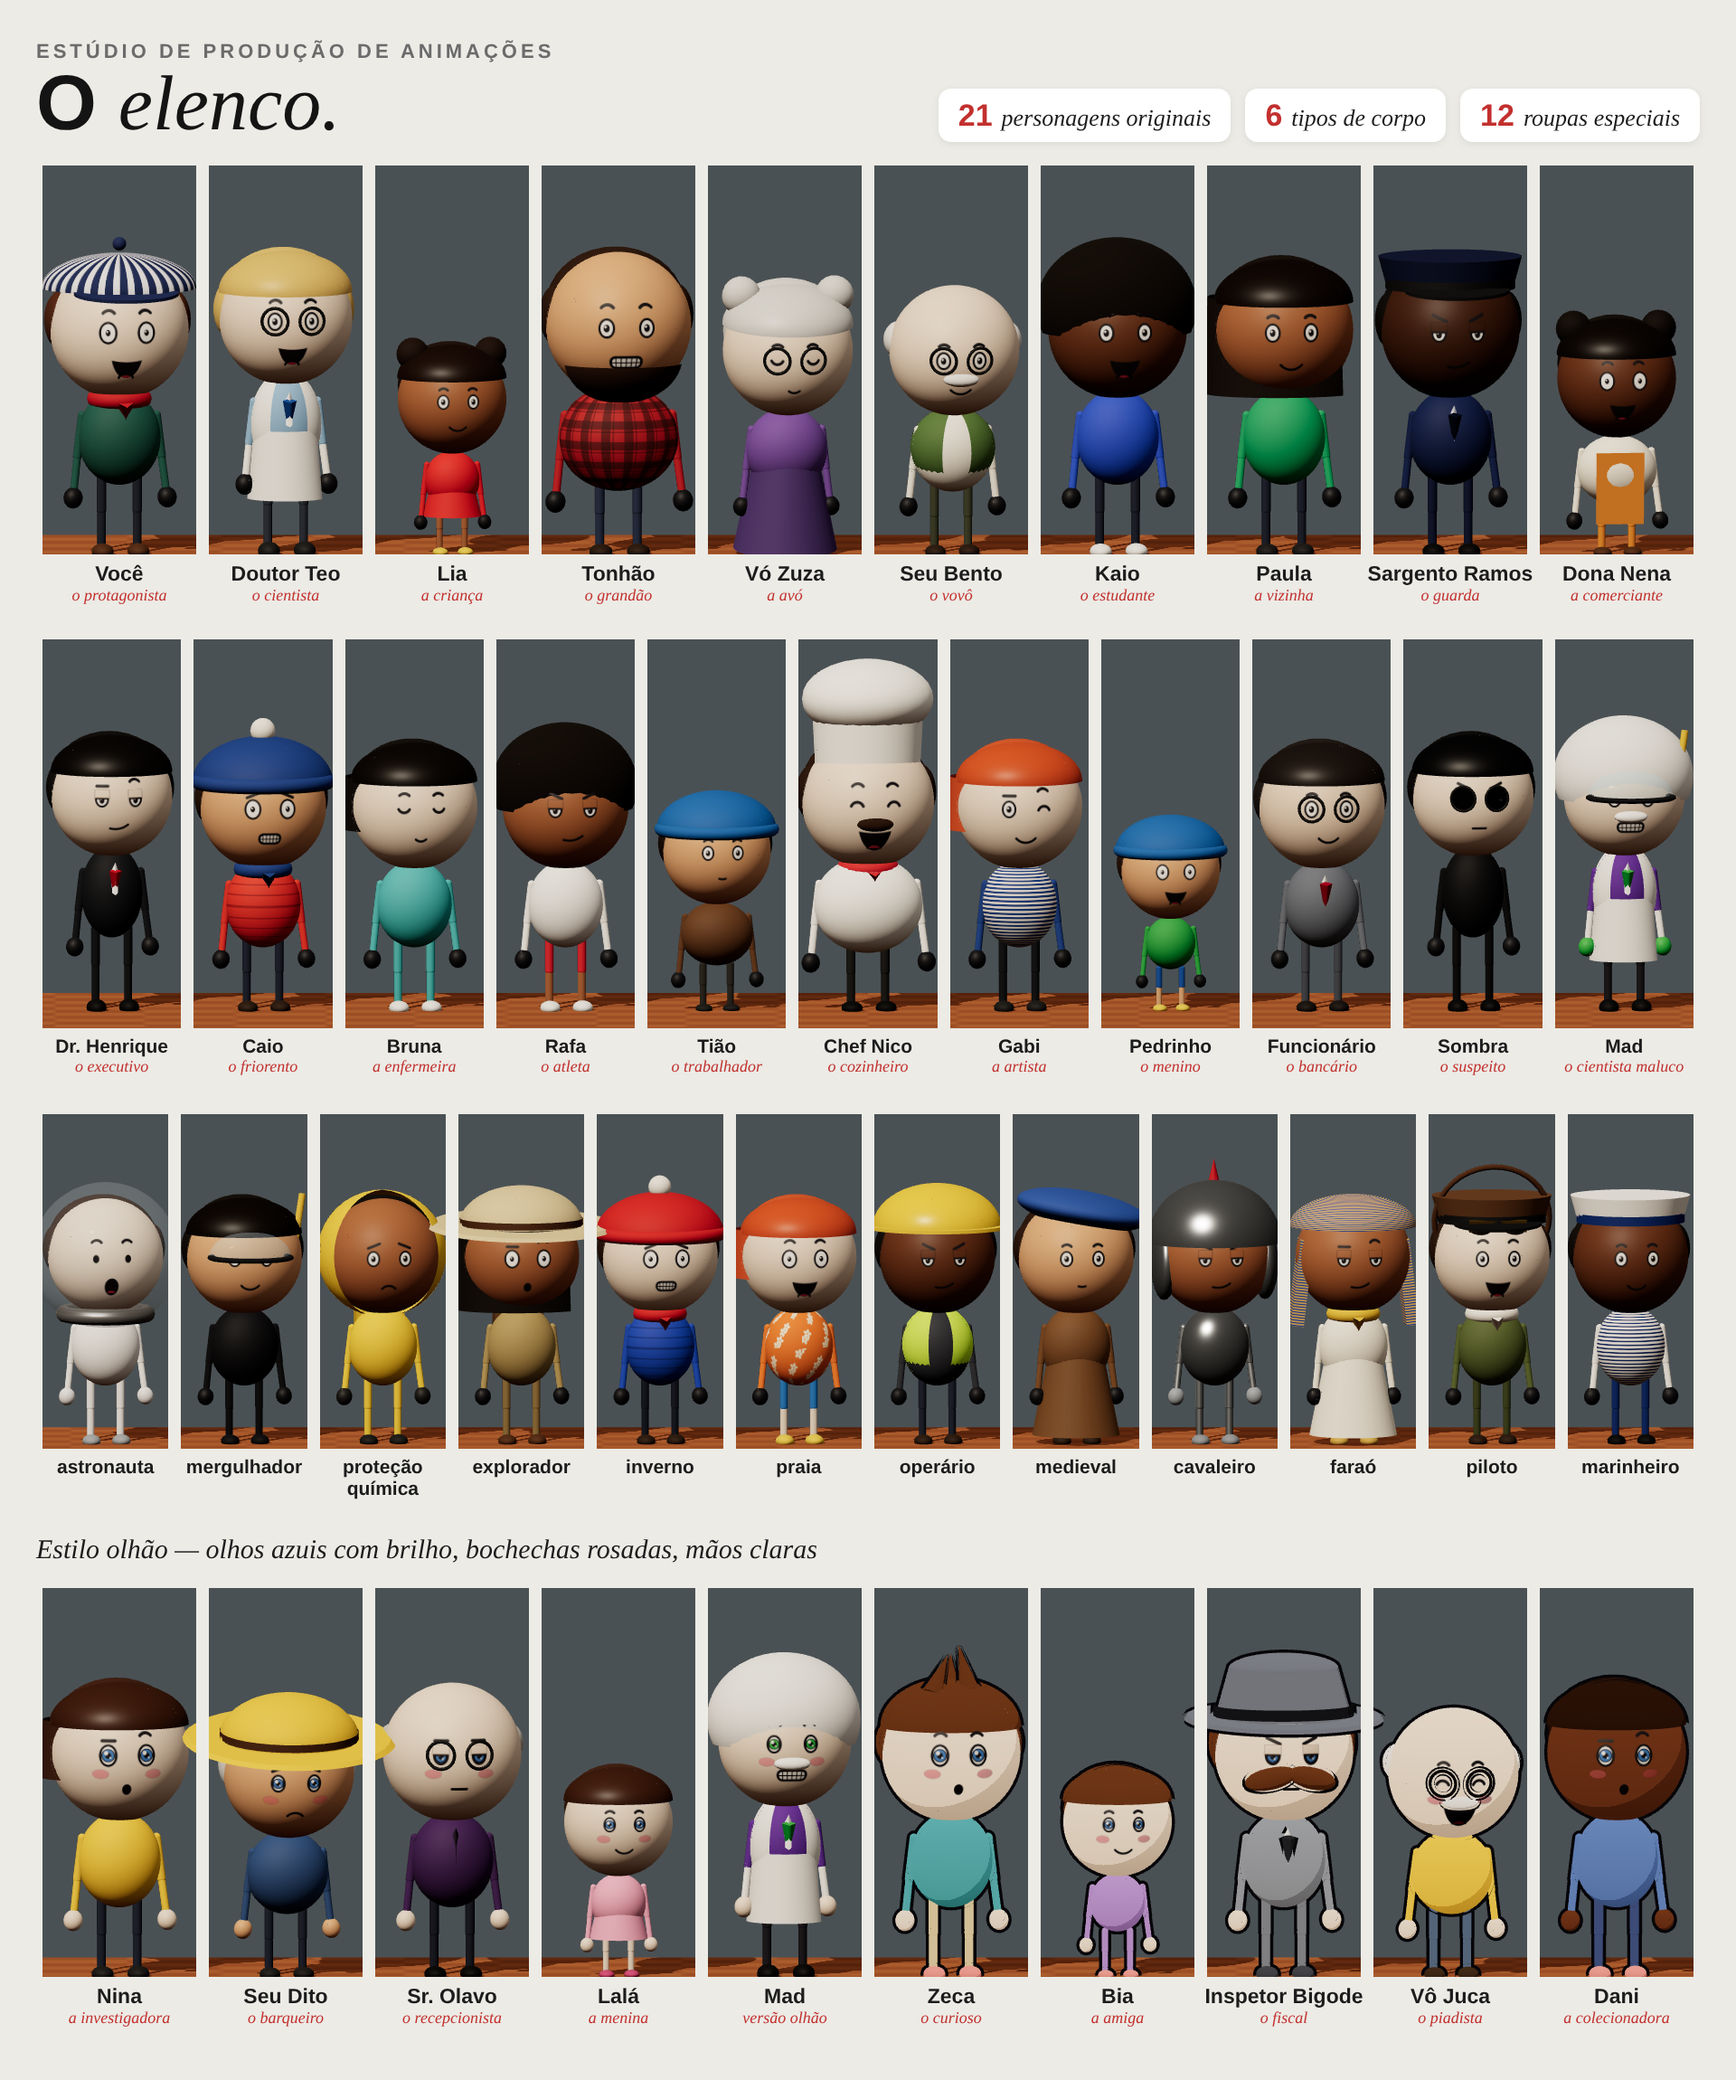
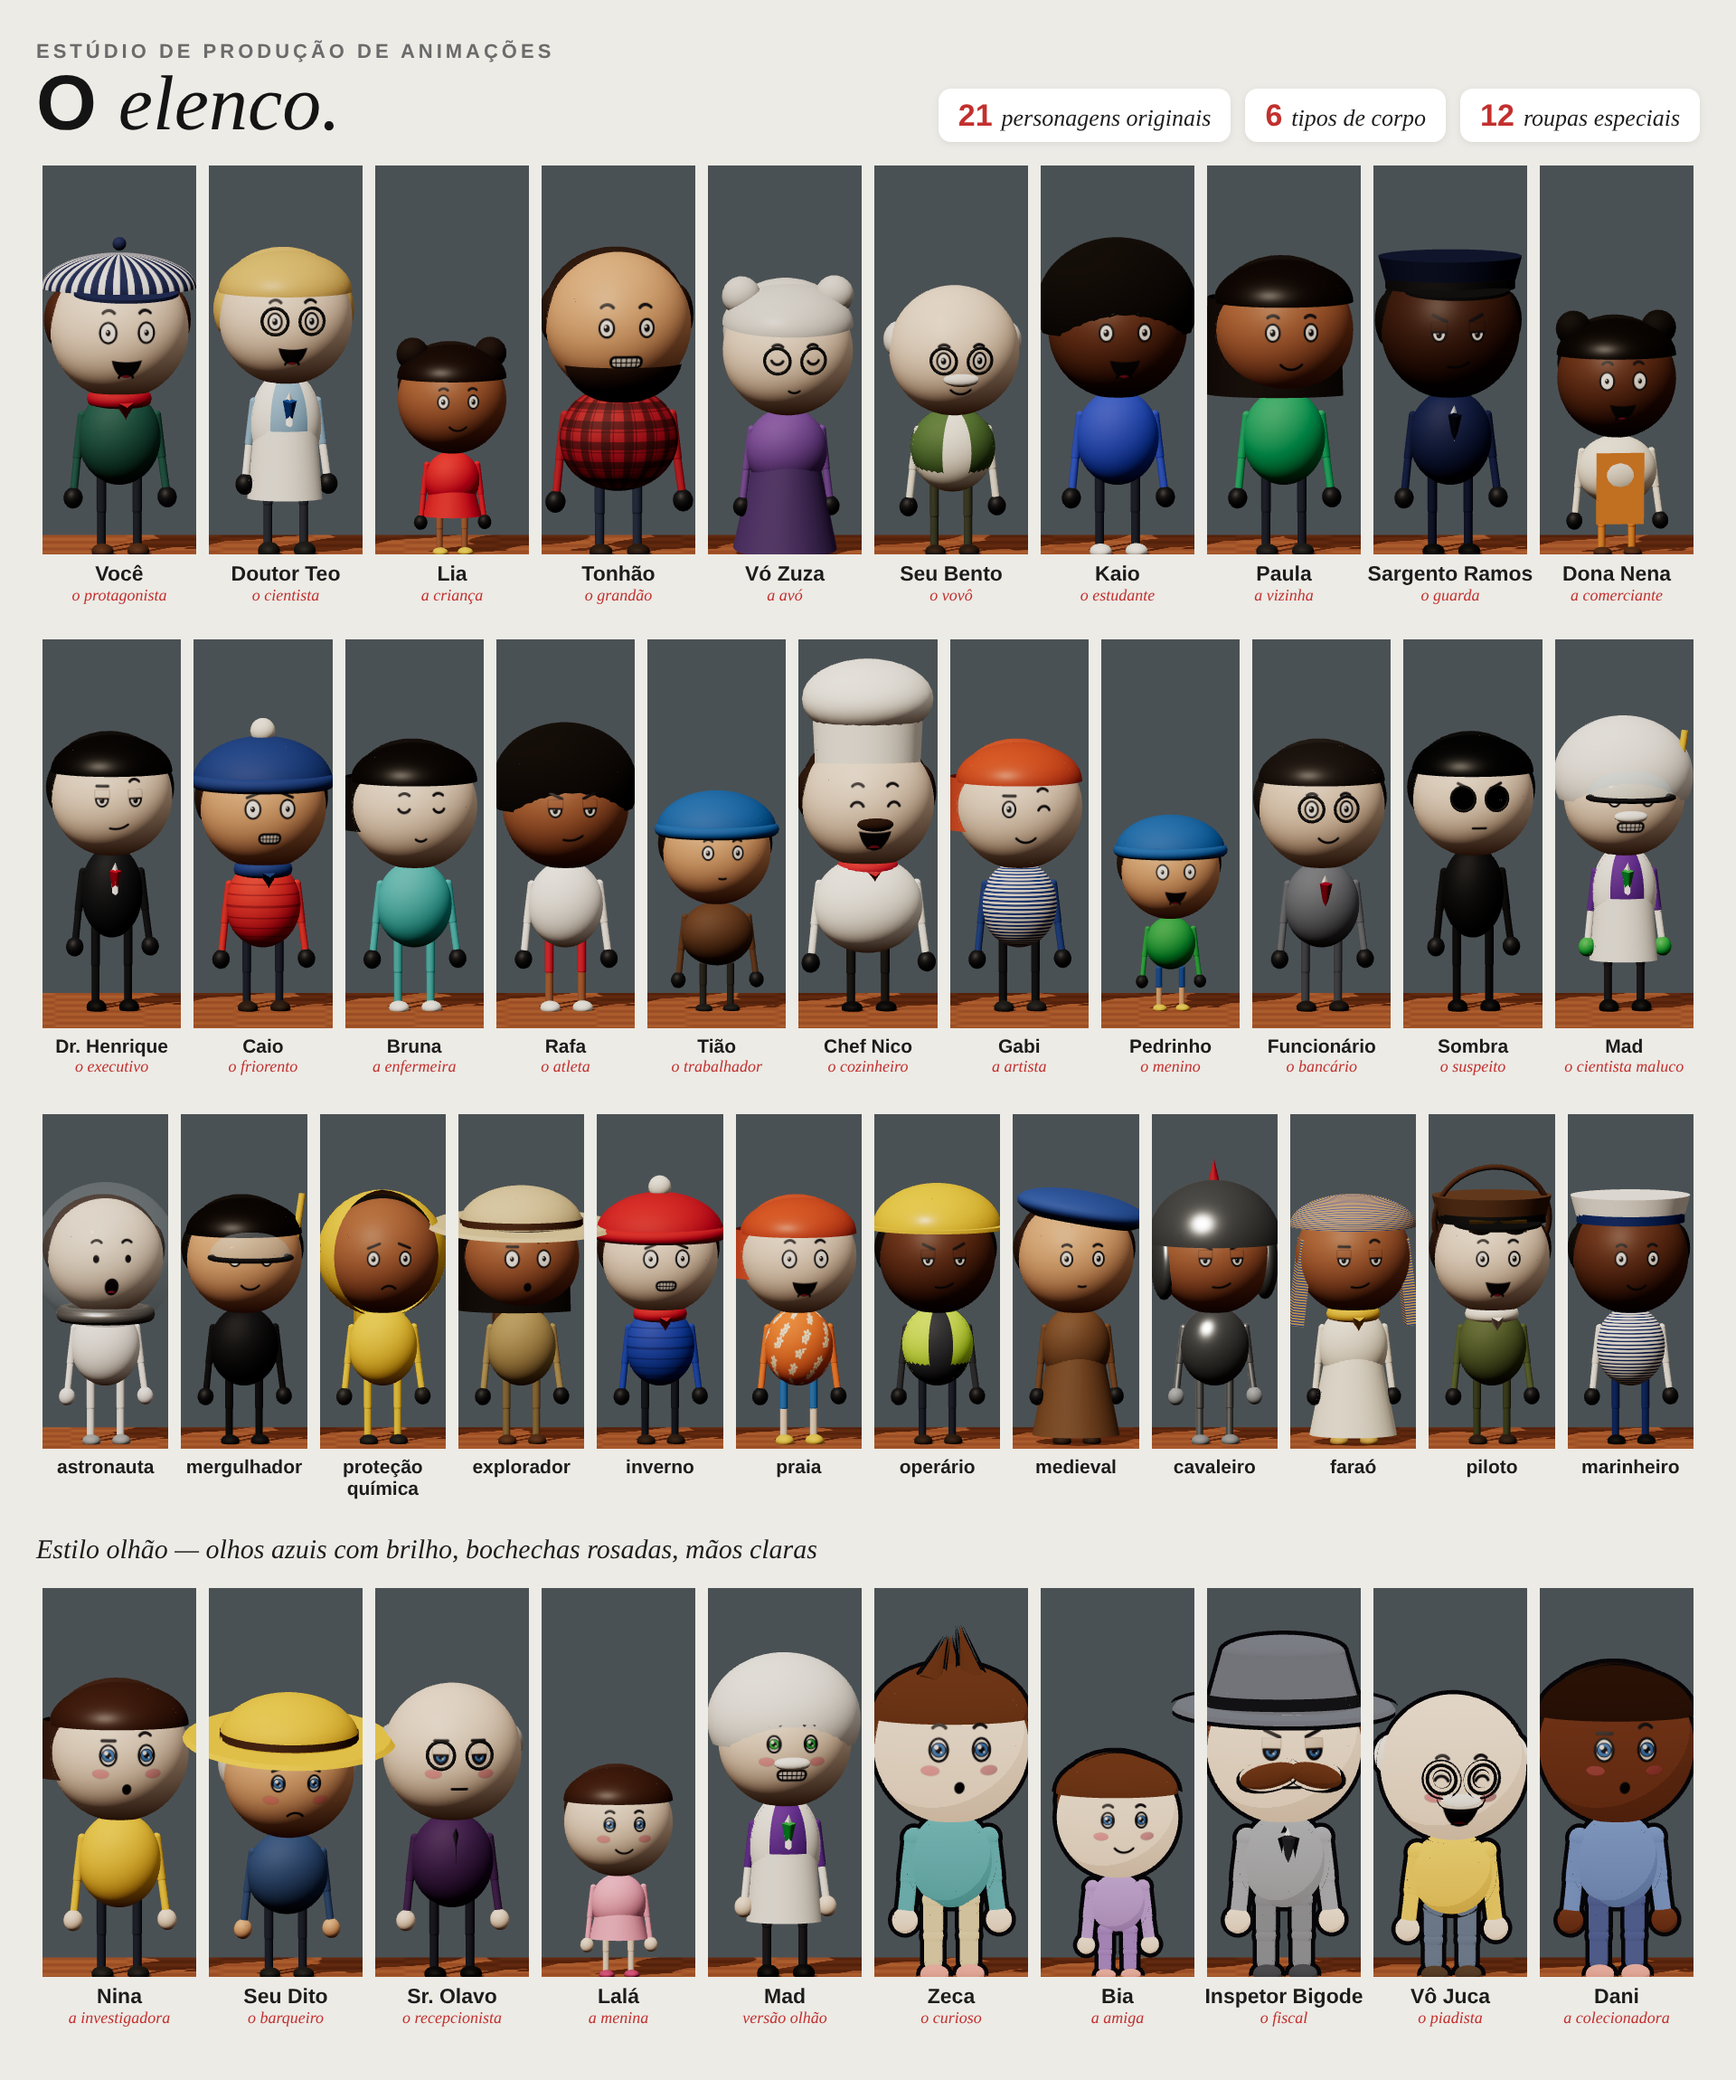
Estilo traço: membros grossos com juntas, cabeça e mãos maiores, contorno mais grosso, cores pastel
Claude-Session: https://claude.ai/code/session_01P7vGK5ehzYiDP7fUjAiZPz

Changed region(s): [[0.5, 0.7717, 1.0, 0.957]]

diff --git a/estudio-animacoes-3d/src/Character.tsx b/estudio-animacoes-3d/src/Character.tsx
@@ -113,7 +113,7 @@ const TracoCtx = createContext(false);
 let toonGrad: THREE.DataTexture | null = null;
 const gradiente = () => {
   if (!toonGrad) {
-    toonGrad = new THREE.DataTexture(new Uint8Array([150, 150, 150, 255, 255, 255, 255, 255]), 2, 1, THREE.RGBAFormat);
+    toonGrad = new THREE.DataTexture(new Uint8Array([200, 200, 200, 255, 255, 255, 255, 255]), 2, 1, THREE.RGBAFormat);
     toonGrad.minFilter = toonGrad.magFilter = THREE.NearestFilter;
     toonGrad.needsUpdate = true;
   }
@@ -126,7 +126,7 @@ const contornoMat = () => {
   if (!inkMat)
     inkMat = new THREE.ShaderMaterial({
       side: THREE.BackSide,
-      uniforms: { w: { value: 0.022 }, cor: { value: new THREE.Color(INK) } },
+      uniforms: { w: { value: 0.03 }, cor: { value: new THREE.Color(INK) } },
       vertexShader: `uniform float w;
         void main() {
           vec4 mv = modelViewMatrix * vec4(position, 1.0);
@@ -193,12 +193,26 @@ const FaceDecal = ({ face, skin, iris, cheeks }: { face: FaceState; skin: string
   );
 };
 
-const Limb = ({ len, r, color, metal }: { len: number; r: number; color: string; metal?: boolean }) => (
-  <mesh position={[0, -len / 2, 0]} castShadow>
-    <capsuleGeometry args={[r, len, 4, 10]} />
-    <Mat color={color} metal={metal} />
-  </mesh>
-);
+// No estilo traço os membros ficam grossos, como tubos, com juntas redondas (boneco articulado).
+const GROSSO = 2.1;
+const Limb = ({ len, r, color, metal }: { len: number; r: number; color: string; metal?: boolean }) => {
+  const traco = useContext(TracoCtx);
+  const rr = traco ? r * GROSSO : r;
+  return (
+    <>
+      <mesh position={[0, -len / 2, 0]} castShadow>
+        <capsuleGeometry args={[rr, traco ? len - rr : len, 4, 12]} />
+        <Mat color={color} metal={metal} />
+      </mesh>
+      {traco && (
+        <mesh castShadow>
+          <sphereGeometry args={[rr * 1.12, 16, 12]} />
+          <Mat color={color} metal={metal} />
+        </mesh>
+      )}
+    </>
+  );
+};
 
 const Arm = ({ side, sz, sx, el, look, sh, hand }: { side: 1 | -1; sz: number; sx: number; el: number; look: Look; sh: number; hand?: ReactNode }) => (
   <group position={[side * sh, 1.0, 0]} rotation={new THREE.Euler(-sx, 0, side * sz, 'ZXY')}>
@@ -206,7 +220,7 @@ const Arm = ({ side, sz, sx, el, look, sh, hand }: { side: 1 | -1; sz: number; s
     <group position={[0, -0.3, 0]} rotation={[-el, 0, 0]}>
       <Limb len={0.27} r={0.028} color={look.coat ?? look.jacket} metal={look.metal} />
       <group position={[0, -0.3, 0]}>
-        <mesh castShadow scale={[1, 1.1, 0.9]}>
+        <mesh castShadow scale={look.traco ? [1.35, 1.35, 1.2] : [1, 1.1, 0.9]}>
           <sphereGeometry args={[0.07, 16, 12]} />
           <Mat color={look.gloves} roughness={0.5} />
         </mesh>
@@ -223,7 +237,7 @@ const Leg = ({ side, swing, tap, look }: { side: 1 | -1; swing: number; tap: num
       <Limb len={0.24} r={0.035} color={look.pants} metal={look.metal} />
       <group position={[0, -0.26, 0]} rotation={[knee, 0, 0]}>
         <Limb len={0.22} r={0.032} color={look.shorts ? look.skin : look.pants} metal={look.metal} />
-        <mesh position={[0, -0.27, 0.07]} scale={[1, 0.7, 1.6]} castShadow>
+        <mesh position={[0, -0.27, 0.07]} scale={look.traco ? [1.3, 0.85, 1.7] : [1, 0.7, 1.6]} castShadow>
           <sphereGeometry args={[0.08, 16, 12]} />
           <Mat color={look.shoes} roughness={0.6} />
         </mesh>
@@ -700,7 +714,7 @@ export const Character = ({
           <Arm side={-1} sz={p.rsz} sx={p.rsx} el={p.rel} look={look} sh={b.sh} hand={right} />
           {/* Cabeça */}
           <group position={[0, 1.18, 0]} rotation={new THREE.Euler(p.hp, p.hy, p.hr, 'YXZ')}>
-            <group position={[0, (HEAD_Y - 1.18) * b.head, 0]} scale={b.head}>
+            <group position={[0, (HEAD_Y - 1.18) * b.head * (look.traco ? 1.1 : 1), 0]} scale={b.head * (look.traco ? 1.12 : 1)}>
               <mesh castShadow>
                 <sphereGeometry args={[HEAD_R, 48, 32]} />
                 <Mat color={look.skin} roughness={0.55} />

diff --git a/estudio-animacoes-3d/src/personagens.ts b/estudio-animacoes-3d/src/personagens.ts
@@ -123,23 +123,23 @@ export const OLHAO = {
   // Turma em tons pastel: topete espetado, chapéu de feltro e bigodão
   zeca: {
     nome: 'Zeca', papel: 'o curioso', rosto: 'surprised',
-    look: { skin: PELE.clara, jacket: '#4fa3b0', pants: '#d8c49a', shoes: '#e88a8a', gloves: PELE.clara, hair: '#6b4428', hairStyle: 'topete', iris: OLHO_AZUL, cheeks: true, traco: true },
+    look: { skin: PELE.clara, jacket: '#5fa8b4', pants: '#d6c7a1', shoes: '#e39a96', gloves: PELE.clara, hair: '#6b4428', hairStyle: 'topete', iris: OLHO_AZUL, cheeks: true, traco: true },
   },
   bia: {
     nome: 'Bia', papel: 'a amiga', rosto: 'smile',
-    look: { skin: PELE.clara, jacket: '#a98ad8', pants: '#a98ad8', shoes: '#e88a8a', gloves: PELE.clara, hair: '#6b4428', hairStyle: 'rabo', body: 'crianca', iris: OLHO_AZUL, cheeks: true, traco: true },
+    look: { skin: PELE.clara, jacket: '#ab95d6', pants: '#9a84c8', shoes: '#e39a96', gloves: PELE.clara, hair: '#6b4428', hairStyle: 'rabo', body: 'crianca', iris: OLHO_AZUL, cheeks: true, traco: true },
   },
   bigode: {
     nome: 'Inspetor Bigode', papel: 'o fiscal', rosto: 'suspicious',
-    look: { skin: PELE.clara, jacket: '#8b94a3', pants: '#7a8290', shoes: '#4a4e58', gloves: PELE.clara, hair: '#6b4428', hat: 'feltro', hatColor: '#6f7787', beard: 'bigodao', shirt: '#e9ecf2', tie: '#33363d', iris: OLHO_AZUL, cheeks: true, traco: true },
+    look: { skin: PELE.clara, jacket: '#9aa2b0', pants: '#858c99', shoes: '#4f535c', gloves: PELE.clara, hair: '#6b4428', hat: 'feltro', hatColor: '#6f7787', beard: 'bigodao', shirt: '#e9ecf2', tie: '#33363d', iris: OLHO_AZUL, cheeks: true, traco: true },
   },
   juca: {
     nome: 'Vô Juca', papel: 'o piadista', rosto: 'laugh',
-    look: { skin: PELE.clara, jacket: '#f0be3c', pants: '#5a6d8a', shoes: '#4a3a2a', gloves: PELE.clara, hair: '#e6e6e6', hairStyle: 'careca', beard: 'bigode', body: 'idoso', eyewear: 'grau', iris: OLHO_AZUL, cheeks: true, traco: true },
+    look: { skin: PELE.clara, jacket: '#ecc35a', pants: '#6a7b96', shoes: '#5a4a3a', gloves: PELE.clara, hair: '#e6e6e6', hairStyle: 'careca', beard: 'bigode', body: 'idoso', eyewear: 'grau', iris: OLHO_AZUL, cheeks: true, traco: true },
   },
   dani: {
     nome: 'Dani', papel: 'a colecionadora', rosto: 'curious',
-    look: { skin: PELE.escura, jacket: '#5f7fc2', pants: '#4a5a8a', pattern: 'liso', shoes: '#e88a8a', gloves: PELE.escura, hair: '#3a2416', hairStyle: 'rabo', iris: OLHO_AZUL, cheeks: true, traco: true },
+    look: { skin: PELE.escura, jacket: '#6f8cc6', pants: '#56669a', pattern: 'liso', shoes: '#e39a96', gloves: PELE.escura, hair: '#3a2416', hairStyle: 'rabo', iris: OLHO_AZUL, cheeks: true, traco: true },
   },
 } satisfies Record<string, Membro>;
 
